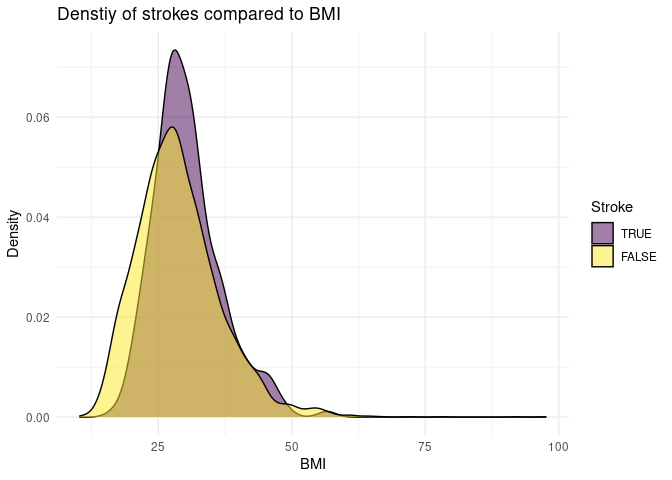
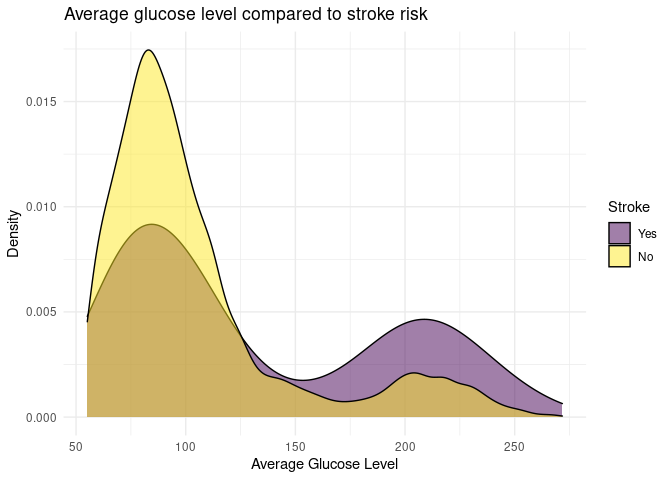
Removed plot, added plot

diff --git a/extra/testing.md b/extra/testing.md
@@ -36,17 +36,13 @@ glimpse(stroke_risk)
 
 ``` r
 stroke_risk %>%
-  mutate(
-    stroke = if_else(stroke == 1, TRUE, FALSE),
-    stroke = fct_rev(factor(stroke))
-  ) %>%
-  filter(!is.na(bmi)) %>%
-  ggplot(aes(x = bmi, fill = stroke)) +
+  mutate(stroke = if_else(stroke == 1, "Yes", "No"), stroke = fct_rev(stroke)) %>%
+  ggplot(aes(x = avg_glucose_level, fill = stroke)) +
   geom_density(alpha = 0.5) +
   labs(
-    x = "BMI",
+    x = "Average Glucose Level",
     y = "Density",
-    title = "Denstiy of strokes compared to BMI",
+    title = "Average glucose level compared to stroke risk",
     fill = "Stroke"
   ) +
   scale_fill_viridis_d() +
